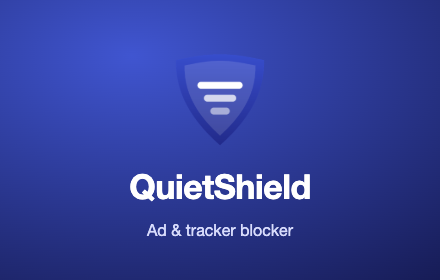
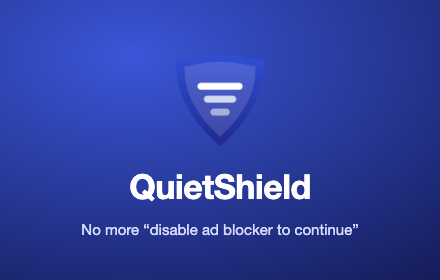
New tagline everywhere and unclipped hero badges (#5)
* Install page: keep hero badges inside the preview so they aren't clipped

* New tagline everywhere: No more "disable ad blocker to continue."

- Install page headline (on its own line after "No more"), page title, link preview
- README header, ARCHITECTURE.md, release notes, extension description,
  store listing, store screenshot and promo tile
- Marketing copy says "Brave's ad-blocking engine" (drops "open-source")

---------

Changed region(s): [[0.1773, 0.8, 0.8273, 0.8571], [0.4432, 0.2857, 0.5614, 0.4286]]

diff --git a/docs/index.html b/docs/index.html
@@ -3,10 +3,10 @@
 <head>
 <meta charset="utf-8">
 <meta name="viewport" content="width=device-width, initial-scale=1">
-<title>QuietShield — Ad &amp; tracker blocker for Chrome</title>
-<meta name="description" content="QuietShield brings Brave's open-source ad-blocking engine to Chrome. Free, private, and built to stay out of sight.">
+<title>QuietShield — No more &ldquo;disable ad blocker to continue&rdquo;</title>
+<meta name="description" content="QuietShield brings Brave's ad-blocking engine to Chrome. Free, private, and built to stay out of sight.">
 <meta property="og:title" content="QuietShield">
-<meta property="og:description" content="Brave's open-source ad-blocking engine, in Chrome. Free and private.">
+<meta property="og:description" content="No more &ldquo;disable ad blocker to continue.&rdquo; Brave's ad-blocking engine, in Chrome. Free and private.">
 <meta property="og:image" content="https://quietshield.arjunr.dev/icon-512.png">
 <link rel="icon" href="icon.png">
 <link rel="preconnect" href="https://fonts.googleapis.com">
@@ -61,7 +61,7 @@
   .pill { display: inline-flex; align-items: center; gap: 8px; padding: 6px 14px 6px 8px; border-radius: 999px; background: var(--surface); border: 1px solid var(--line); font-size: 13px; color: var(--ink-2); }
   .pill .dot { width: 20px; height: 20px; border-radius: 50%; background: var(--accent-soft); display: grid; place-items: center; }
   .pill .dot::after { content: ""; width: 7px; height: 7px; border-radius: 50%; background: var(--accent); }
-  h1 { font-weight: 300; font-size: clamp(44px, 6.4vw, 76px); line-height: 1.02; letter-spacing: -.045em; margin: 24px 0 22px; }
+  h1 { font-weight: 300; font-size: clamp(42px, 5.6vw, 68px); line-height: 1.05; letter-spacing: -.04em; margin: 24px 0 22px; text-wrap: balance; }
   h1 em { font-style: normal; color: var(--accent); }
   .lede { font-size: 19px; line-height: 1.6; color: var(--ink-2); max-width: 30em; margin: 0 0 36px; font-weight: 300; }
   .cta { display: flex; flex-wrap: wrap; align-items: center; gap: 14px 24px; }
@@ -73,7 +73,7 @@
   .meta { margin-top: 18px; font-size: 13px; color: var(--ink-3); }
 
   /* Hero visual: popup mock */
-  .visual { position: relative; display: grid; place-items: center; min-height: 420px; overflow-x: clip; }
+  .visual { position: relative; display: grid; place-items: center; min-height: 420px; }
   .visual .halo { position: absolute; width: 340px; height: 340px; border-radius: 50%; background: radial-gradient(circle, rgba(75, 92, 240, .18), transparent 65%); }
   .popup { position: relative; width: min(300px, 100%); background: rgba(255, 255, 255, .86); backdrop-filter: blur(18px); -webkit-backdrop-filter: blur(18px); border: 1px solid rgba(255, 255, 255, .9); border-radius: 22px; box-shadow: 0 30px 60px -20px rgba(14, 16, 32, .25), 0 0 0 1px var(--line); padding: 22px; }
   .popup-head { display: flex; align-items: center; gap: 12px; margin-bottom: 18px; }
@@ -91,8 +91,8 @@
   .count span { font-size: 13px; color: var(--ink-3); }
   .chip { position: absolute; white-space: nowrap; background: var(--surface); border: 1px solid var(--line); border-radius: 14px; padding: 10px 14px; font-size: 13px; color: var(--ink-2); box-shadow: var(--shadow); display: flex; align-items: center; gap: 8px; }
   .chip i { width: 8px; height: 8px; border-radius: 50%; background: #3cc28a; display: inline-block; }
-  .chip.a { top: 18px; left: -8px; z-index: 2; }
-  .chip.b { bottom: 30px; right: -6px; z-index: 2; }
+  .chip.a { top: 18px; left: 4px; z-index: 2; }
+  .chip.b { bottom: 30px; right: 4px; z-index: 2; }
 
   /* Stats */
   .stats { position: relative; z-index: 1; display: grid; grid-template-columns: repeat(3, 1fr); background: var(--surface); border: 1px solid var(--line); border-radius: var(--radius); box-shadow: var(--shadow); }
@@ -299,8 +299,8 @@
   <header class="hero">
     <div>
       <span class="pill rise"><span class="dot"></span>Version 0.1.0 · Free and open source</span>
-      <h1 class="rise d1">Block ads.<br>Stay <em>unnoticed.</em></h1>
-      <p class="lede rise d2">QuietShield brings Brave's open-source ad-blocking engine to Chrome. It removes ads, trackers and cookie banners, and is built to stay out of a website's sight.</p>
+      <h1 class="rise d1">No more<br><em>&ldquo;disable ad blocker to continue.&rdquo;</em></h1>
+      <p class="lede rise d2">QuietShield brings Brave's ad-blocking engine to Chrome. It removes ads, trackers and cookie banners, and is built to stay out of a website's sight.</p>
       <div class="cta rise d3">
         <a class="btn" href="https://github.com/arjun-vegeta/QuietShield/releases/latest/download/quietshield.zip">
           <svg viewBox="0 0 24 24" fill="none" stroke="currentColor" stroke-width="1.6" stroke-linecap="round" stroke-linejoin="round"><path d="M12 4v11m0 0-4.5-4.5M12 15l4.5-4.5M5 19.5h14"/></svg>
@@ -340,7 +340,7 @@
     <div class="features">
       <div class="feature">
         <div class="ic"><svg viewBox="0 0 24 24" fill="none" stroke="currentColor" stroke-width="1.5" stroke-linecap="round" stroke-linejoin="round"><path d="M12 3 4.5 6v5.5c0 4.6 3.2 8.4 7.5 9.5 4.3-1.1 7.5-4.9 7.5-9.5V6L12 3Z"/><path d="m9 12 2 2 4-4"/></svg></div>
-        <h3>Brave's open-source engine</h3>
+        <h3>Brave's ad-blocking engine</h3>
         <p>Powered by adblock-rust, the engine behind Brave Shields, with EasyList, EasyPrivacy, uBlock Origin filters and Brave's own lists.</p>
       </div>
       <div class="feature">

diff --git a/store/assets/hero.html b/store/assets/hero.html
@@ -7,7 +7,7 @@
   .brand { display: flex; align-items: center; gap: 18px; margin-bottom: 36px }
   .brand img { width: 72px; height: 72px }
   .brand span { font-size: 40px; font-weight: 700; letter-spacing: -0.5px }
-  h1 { font-size: 54px; line-height: 1.08; letter-spacing: -1px; font-weight: 750; margin-bottom: 28px }
+  h1 { font-size: 50px; line-height: 1.08; letter-spacing: -1px; font-weight: 750; margin-bottom: 28px }
   ul { list-style: none; padding: 0; display: grid; gap: 16px }
   li { font-size: 22px; color: #d7dcff; display: flex; gap: 14px; align-items: baseline }
   li::before { content: ""; width: 10px; height: 10px; border-radius: 50%; background: #8fa2ff; flex: none; transform: translateY(-2px) }
@@ -22,9 +22,9 @@
 </style>
 <div class="copy">
   <div class="brand"><img src="icon-512.png"><span>QuietShield</span></div>
-  <h1>Block ads and trackers.<br>Quietly.</h1>
+  <h1>No more &ldquo;disable ad<br>blocker to continue.&rdquo;</h1>
   <ul>
-    <li>Powered by Brave's open-source adblock-rust engine</li>
+    <li>Powered by Brave's adblock-rust engine</li>
     <li>Same default filter lists Brave uses</li>
     <li>Built to be hard for sites to detect</li>
     <li>Standard and Aggressive modes, per-site toggle</li>

diff --git a/store/assets/tile.html b/store/assets/tile.html
@@ -2,6 +2,6 @@
 <style>
   * { margin: 0 } body { width: 440px; height: 280px; display: flex; flex-direction: column; align-items: center; justify-content: center; gap: 14px;
   font-family: -apple-system, "Helvetica Neue", sans-serif; color: #fff; background: radial-gradient(500px 300px at 30% 20%, #3a56d8, #141a55) }
-  img { width: 110px; height: 110px } h1 { font-size: 34px; font-weight: 750; letter-spacing: -0.5px } p { color: #d7dcff; font-size: 16px }
+  img { width: 110px; height: 110px } h1 { font-size: 34px; font-weight: 750; letter-spacing: -0.5px } p { color: #d7dcff; font-size: 15px }
 </style>
-<img src="icon-512.png"><h1>QuietShield</h1><p>Ad &amp; tracker blocker</p>
+<img src="icon-512.png"><h1>QuietShield</h1><p>No more &ldquo;disable ad blocker to continue&rdquo;</p>

diff --git a/store/listing.md b/store/listing.md
@@ -2,14 +2,16 @@
 
 ## Store listing tab
 **Name:** QuietShield — Ad & Tracker Blocker
-**Summary (≤132 chars):** Blocks ads and trackers quietly, using Brave's open-source adblock-rust engine and filter lists.
+**Summary (≤132 chars):** No more “disable ad blocker to continue.” Blocks ads and trackers with Brave's engine and lists.
 **Category:** Privacy & Security
 **Language:** English
 
 **Description:**
+No more “disable ad blocker to continue.”
+
 QuietShield blocks ads, trackers, cookie banners and anti-adblock walls, while staying hard for websites to detect.
 
-• Powered by Brave's open-source adblock-rust engine, the same engine behind Brave's built-in blocker
+• Powered by Brave's adblock-rust engine, the same engine behind Brave's built-in blocker
 • Uses the same default filter lists (EasyList, EasyPrivacy, uBlock Origin filters and Brave's own lists)
 • Hides leftover ad boxes and runs anti-adblock fixes before page scripts load
 • Standard mode keeps sites working by not blocking their own first-party content; Aggressive mode blocks more

diff --git a/README.md b/README.md
@@ -2,7 +2,7 @@
 
 <h1 align="center">QuietShield</h1>
 
-<p align="center">A free ad and tracker blocker for Chrome, powered by Brave's open-source ad-blocking engine.<br>
+<p align="center"><b>No more &ldquo;disable ad blocker to continue.&rdquo;</b><br>A free ad and tracker blocker for Chrome, powered by Brave's ad-blocking engine.<br>
 <a href="https://quietshield.arjunr.dev/">Website</a> · <a href="https://github.com/arjun-vegeta/QuietShield/releases/latest/download/quietshield.zip">Download</a> · <a href="ARCHITECTURE.md">Architecture</a></p>
 
 ---

diff --git a/ARCHITECTURE.md b/ARCHITECTURE.md
@@ -1,5 +1,7 @@
 # QuietShield architecture
 
+*No more “disable ad blocker to continue.”*
+
 The question that started this: *Brave blocks ads well and websites rarely notice. Can Chrome do the
 same with an extension?* This document covers the research, the design, how we tested against
 Brave, what we fixed after reverse-engineering the differences, and how to build it yourself.

diff --git a/.github/release-notes.md b/.github/release-notes.md
@@ -1,3 +1,5 @@
+**No more “disable ad blocker to continue.”**
+
 ## Install (about 1 minute)
 
 1. Download **quietshield.zip** below and unzip it.
